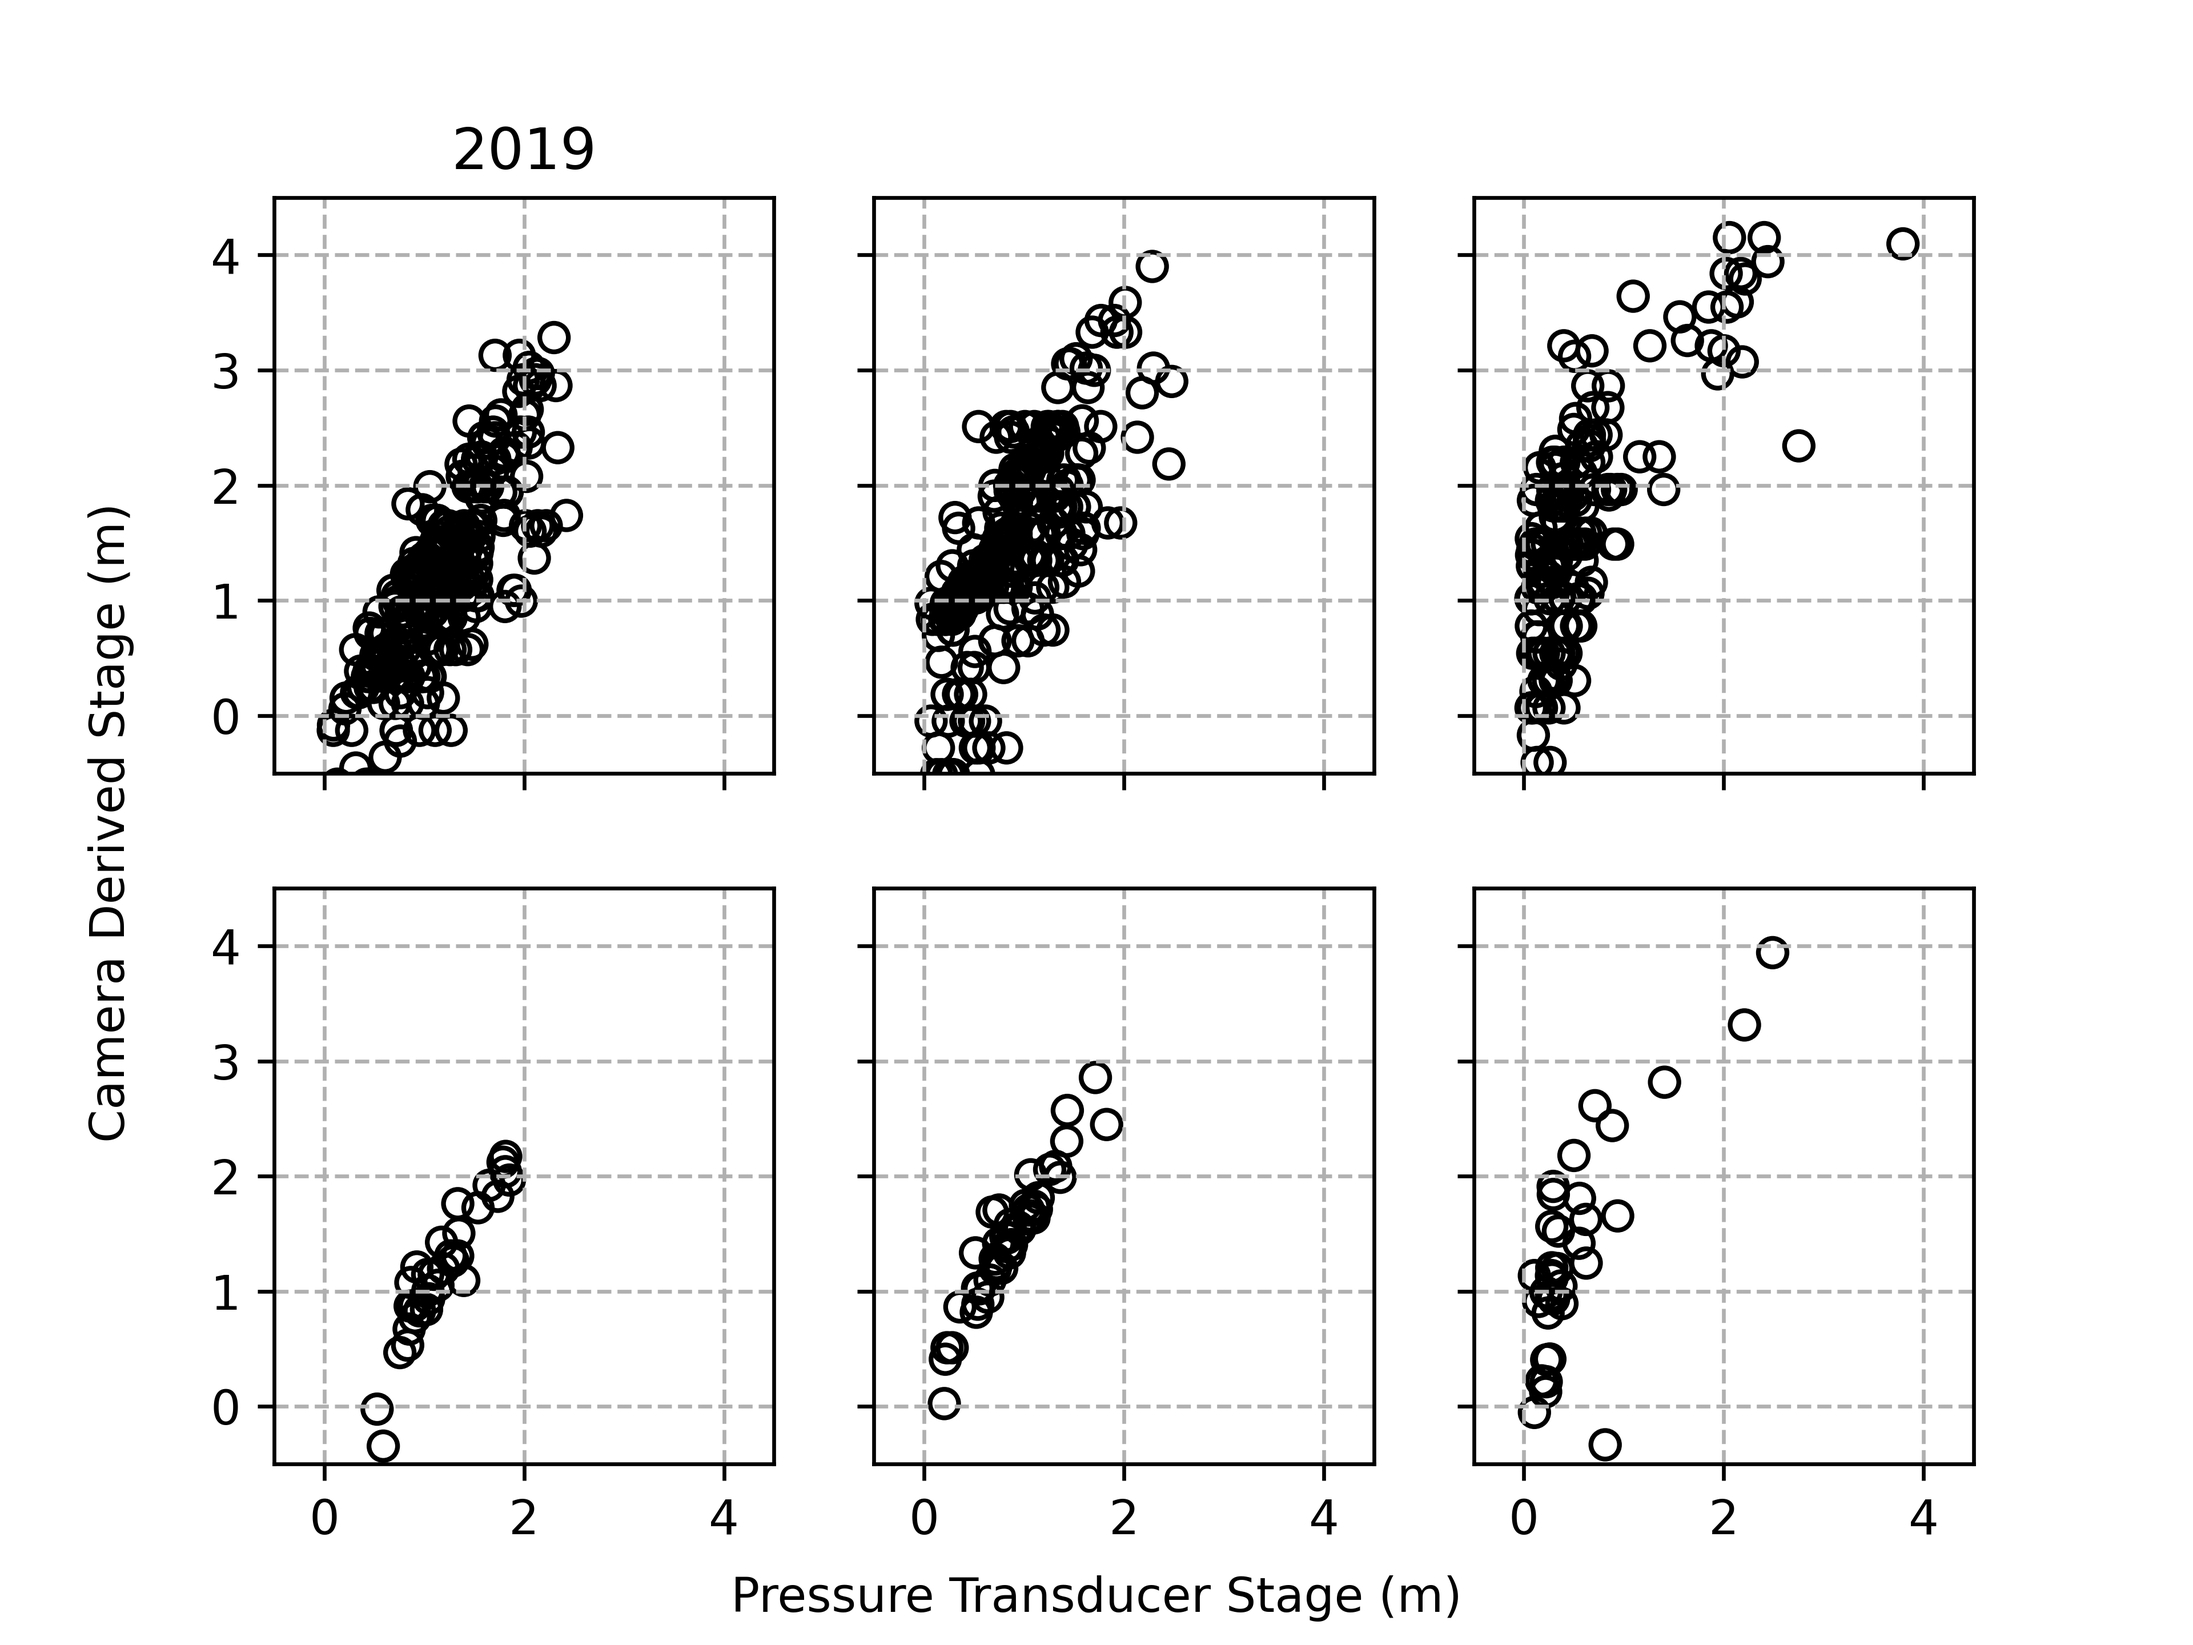
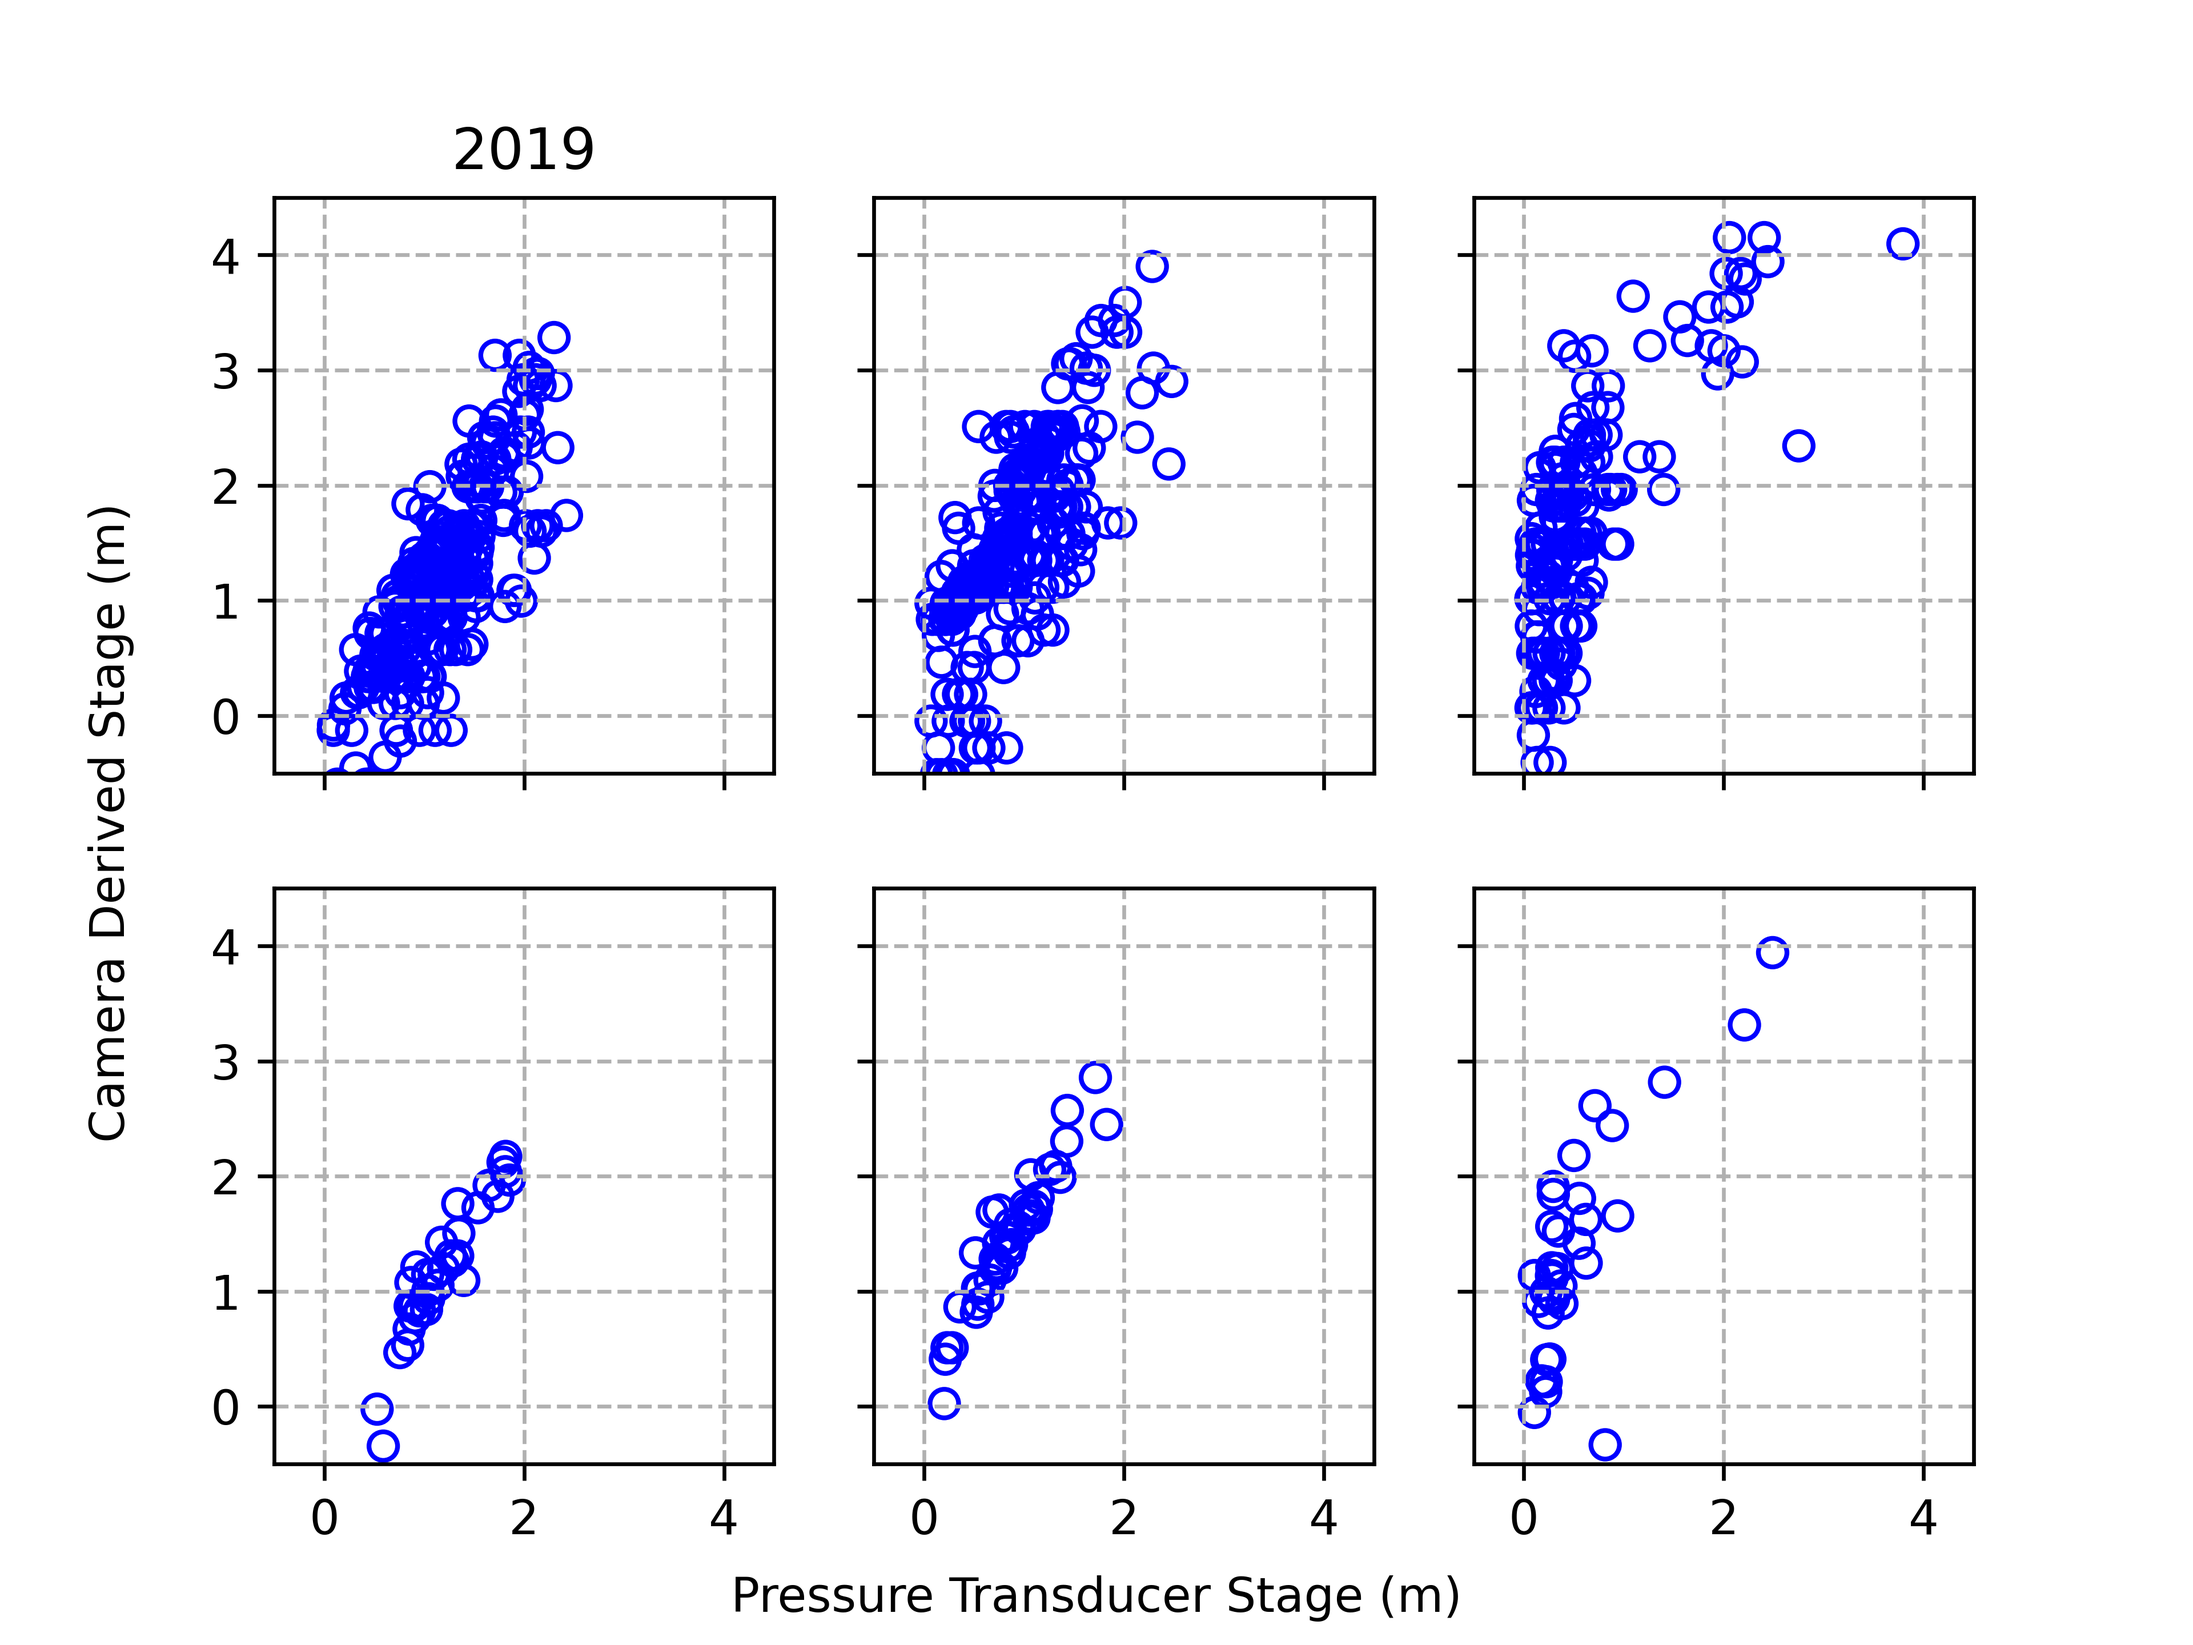
Figure 6 colour changes

diff --git a/waterline_orthorectification.py b/waterline_orthorectification.py
@@ -282,7 +282,7 @@ pltTimeSeries(projectdf_z2021)
 
 def pltScatter(ax, var1, var2, pos1, pos2, label=None):
     '''Plot two variables as scatter subplot'''
-    ax[pos1,pos2].scatter(var1, var2, facecolors='none', edgecolors='black')
+    ax[pos1,pos2].scatter(var1, var2, facecolors='none', edgecolors='blue')
     ax[pos1,pos2].grid(linestyle= 'dashed')
     ax[pos1,pos2].set_ylim(bottom = -0.5, top =4.5)
     ax[pos1,pos2].set_xlim(left = -0.5, right =4.5)
